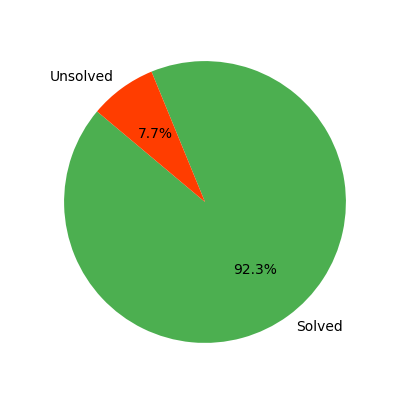
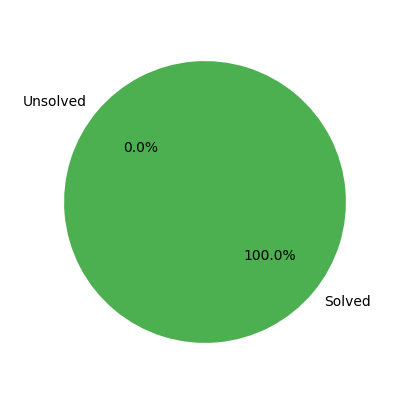
Updated README with latest progress

diff --git a/README.md b/README.md
@@ -1,25 +1,30 @@
 # LeetCode Progress Tracker 🚀
 
 ## 📊 Progress Overview
-- **Total Problems**: 13
-- **Total Solved**: 12
-- **Progress:** [██████████████████--] 12/13 solved
+- **Total Problems**: 18
+- **Total Solved**: 18
+- **Progress:** [████████████████████] 18/18 solved
 
 ![Progress Chart](progress_chart.png)
 
 ## 📌 Problem List
 | #  | Problem | Category | Difficulty | Time Taken | Attempts | Hints Used | Notes | Status |
 |----|---------|----------|------------|------------|----------|------------|-------|--------|
-| 1 | Counting Bits: https://leetcode.com/problems/isomorphic-strings/description/ | HashMaps | Easy | 20 min | 2 | Yes | Use a hashmap to store the mapping of characters from s to t. If a character in s is already in the hashmap, check if the mapping is the same as the current character in t. If not, return False. If the current character in t is already in the hashmap, return False. Otherwise, add the mapping to the hashmap. | Solved |
-| 2 | Group Anagrams: https://leetcode.com/problems/group-anagrams/ | HashMaps | Medium | 40 min | 5 | Yes | Store in the hash_map all anagram by using the word sorted as key. | Solved |
-| 3 | Contains Duplicate II: https://leetcode.com/problems/contains-duplicate-ii/ | HashMaps | Easy | 20 min | 2 | No | Use a hashmap to implement the solution in O(n) time. Store the index of the last occurence of each number in the hashmap. If the difference between the current index and the last occurence is less than or equal to k, return True. Otherwise, update the last occurence of the number in the hashmap. | Solved |
-| 4 | Encode And Decode Tiny URL: https://leetcode.com/problems/encode-and-decode-tinyurl/ | HashMaps | Medium | 8 min | 1 | No | Use a dictionnary to store the correspondance between the encoded key and the long url. This code can be improve by adding an other hash_map to verify if the url hasn't already encoded, and by verifying if the key wasn't already used even tough the probability is very low. | Solved |
-| 5 | Longest Consecutive Sequence: https://leetcode.com/problems/longest-consecutive-sequence | HashMaps | Medium | 15 min | 1 | No | Use a set to store unique values from the input list for O(1) lookups. Iterate through the set and only start counting sequences from numbers that have no predecessor (num - 1 not in set). Expand the sequence by counting consecutive numbers (num + 1) in the set. | Solved |
-| 6 | Valid Palindrome | Strings | Easy | 15 min | 2 | No | None | Solved |
-| 7 | 3Sum: https://leetcode.com/problems/3sum | TwoPointers | Medium | 34 min | 2 | Yes |  | Solved |
-| 8 | Two Sum II - Input Array Is Sorted: https://leetcode.com/problems/two-sum-ii-input-array-is-sorted | TwoPointers | Medium | 10 min | 2 | Yes | Use two pointers, one at the start and one at the end. Move the pointers left or right based on the sum, taking advantage of the sorted order of the array. | Solved |
-| 9 | Range Sum Query - Immutable: https://leetcode.com/problems/range-sum-query-immutable/ | PrefixSum | Easy | 20 min | 1 | No |  | Solved |
-| 10 | Subarray Sum Equals K | PrefixSum | Medium | 1h+ | 4 | Yes |  | Solved |
-| 11 | Problem 1 | Arrays | Easy | 15 min | 1 | No | Used a dictionary to store seen numbers. | Unsolved |
-| 12 | Counting Bits: https://leetcode.com/problems/counting-bits/description/ | Bit Manipulation | Easy | 20 min | 1 | Yes | Used a helper function to count the number of 1 bits in a number. Use the operation n & (n - 1) to count the number of 1 bits in a number. | Solved |
-| 13 | Single Number | Bit Manipulation | Easy | 5 min | 1 | No | Used XOR to solve the problem. It permits us to find the unique number in the list. Why ? Because XOR of a number with itself is 0. So, if we XOR all the numbers in the list, we will be left with the unique number. | Solved |
+| 1 | Counting Bits: https://leetcode.com/problems/isomorphic-strings/description/ | Arrays & HashMaps | Easy | 20 min | 2 | Yes | Use a hashmap to store the mapping of characters from s to t. If a character in s is already in the hashmap, check if the mapping is the same as the current character in t. If not, return False. If the current character in t is already in the hashmap, return False. Otherwise, add the mapping to the hashmap. | Solved |
+| 2 | Two Sum: https://leetcode.com/problems/two-sum | Arrays & HashMaps | Easy | 10 min | 1 | No | Use a dictionnary with set values to store unique numbers of each cols, rows and squares. If the element is found in it return false. To manage square we use: squares[(r // 3, c // 3)] that identifies each 3x3 box by its row and column group and keeps track of seen digits in that box. | Solved |
+| 3 | Product Of Array Except Self: https://leetcode.com/problems/product-of-array-except-self/ | Arrays & HashMaps | Medium | 40 min | 5 | Yes | Use a prefix and postfix to calculate the product. | Solved |
+| 4 | Group Anagrams: https://leetcode.com/problems/group-anagrams/ | Arrays & HashMaps | Medium | 40 min | 5 | Yes | Store in the hash_map all anagram by using the word sorted as key. | Solved |
+| 5 | Contains Duplicate II: https://leetcode.com/problems/contains-duplicate-ii/ | Arrays & HashMaps | Easy | 20 min | 2 | No | Use a hashmap to implement the solution in O(n) time. Store the index of the last occurence of each number in the hashmap. If the difference between the current index and the last occurence is less than or equal to k, return True. Otherwise, update the last occurence of the number in the hashmap. | Solved |
+| 6 | Encode And Decode Tiny URL: https://leetcode.com/problems/encode-and-decode-tinyurl/ | Arrays & HashMaps | Medium | 8 min | 1 | No | Use a dictionnary to store the correspondance between the encoded key and the long url. This code can be improve by adding an other hash_map to verify if the url hasn't already encoded, and by verifying if the key wasn't already used even tough the probability is very low. | Solved |
+| 7 | Two Sum: https://leetcode.com/problems/two-sum | Arrays & HashMaps | Easy | 10 min | 1 | No | We use a hash_map to store the difference between the target and the current number as a key and the index as a value. We have to check if the current num is not already in the hash_map because if it's the case it means we have a sum of two elements that gives the target (hash_map[nums[i]] and i). | Solved |
+| 8 | Top K Frequent Elements: https://leetcode.com/problems/top-k-frequent-elements/ | Arrays & HashMaps | Easy | 20 min | 1 | No | We use a hash_map to store the number of time an element appear in the array. Then we sort this map by the number of time they appear and return the number of elements asked by k. | Solved |
+| 9 | Contains Duplicate: https://leetcode.com/problems/contains-duplicate/ | Arrays & HashMaps | Easy | 5 min | 2 | No | Use a set to get only unique letters. If the length is not the same it means there are duplicates. | Solved |
+| 10 | Longest Consecutive Sequence: https://leetcode.com/problems/longest-consecutive-sequence | Arrays & HashMaps | Medium | 15 min | 1 | No | Use a set to store unique values from the input list for O(1) lookups. Iterate through the set and only start counting sequences from numbers that have no predecessor (num - 1 not in set). Expand the sequence by counting consecutive numbers (num + 1) in the set. | Solved |
+| 11 | Valid Anagram: https://leetcode.com/problems/valid-anagram/ | Strings | Easy | 20 min | 1 | No | Use hash_map to store distinct letters with the number of time they're appearing in the string. If equals it means it's an anagram. | Solved |
+| 12 | Valid Palindrome | Strings | Easy | 15 min | 2 | No | None | Solved |
+| 13 | 3Sum: https://leetcode.com/problems/3sum | TwoPointers | Medium | 34 min | 2 | Yes |  | Solved |
+| 14 | Two Sum II - Input Array Is Sorted: https://leetcode.com/problems/two-sum-ii-input-array-is-sorted | TwoPointers | Medium | 10 min | 2 | Yes | Use two pointers, one at the start and one at the end. Move the pointers left or right based on the sum, taking advantage of the sorted order of the array. | Solved |
+| 15 | Range Sum Query - Immutable: https://leetcode.com/problems/range-sum-query-immutable/ | PrefixSum | Easy | 20 min | 1 | No |  | Solved |
+| 16 | Subarray Sum Equals K | PrefixSum | Medium | 1h+ | 4 | Yes |  | Solved |
+| 17 | Counting Bits: https://leetcode.com/problems/counting-bits/description/ | Bit Manipulation | Easy | 20 min | 1 | Yes | Used a helper function to count the number of 1 bits in a number. Use the operation n & (n - 1) to count the number of 1 bits in a number. | Solved |
+| 18 | Single Number | Bit Manipulation | Easy | 5 min | 1 | No | Used XOR to solve the problem. It permits us to find the unique number in the list. Why ? Because XOR of a number with itself is 0. So, if we XOR all the numbers in the list, we will be left with the unique number. | Solved |
